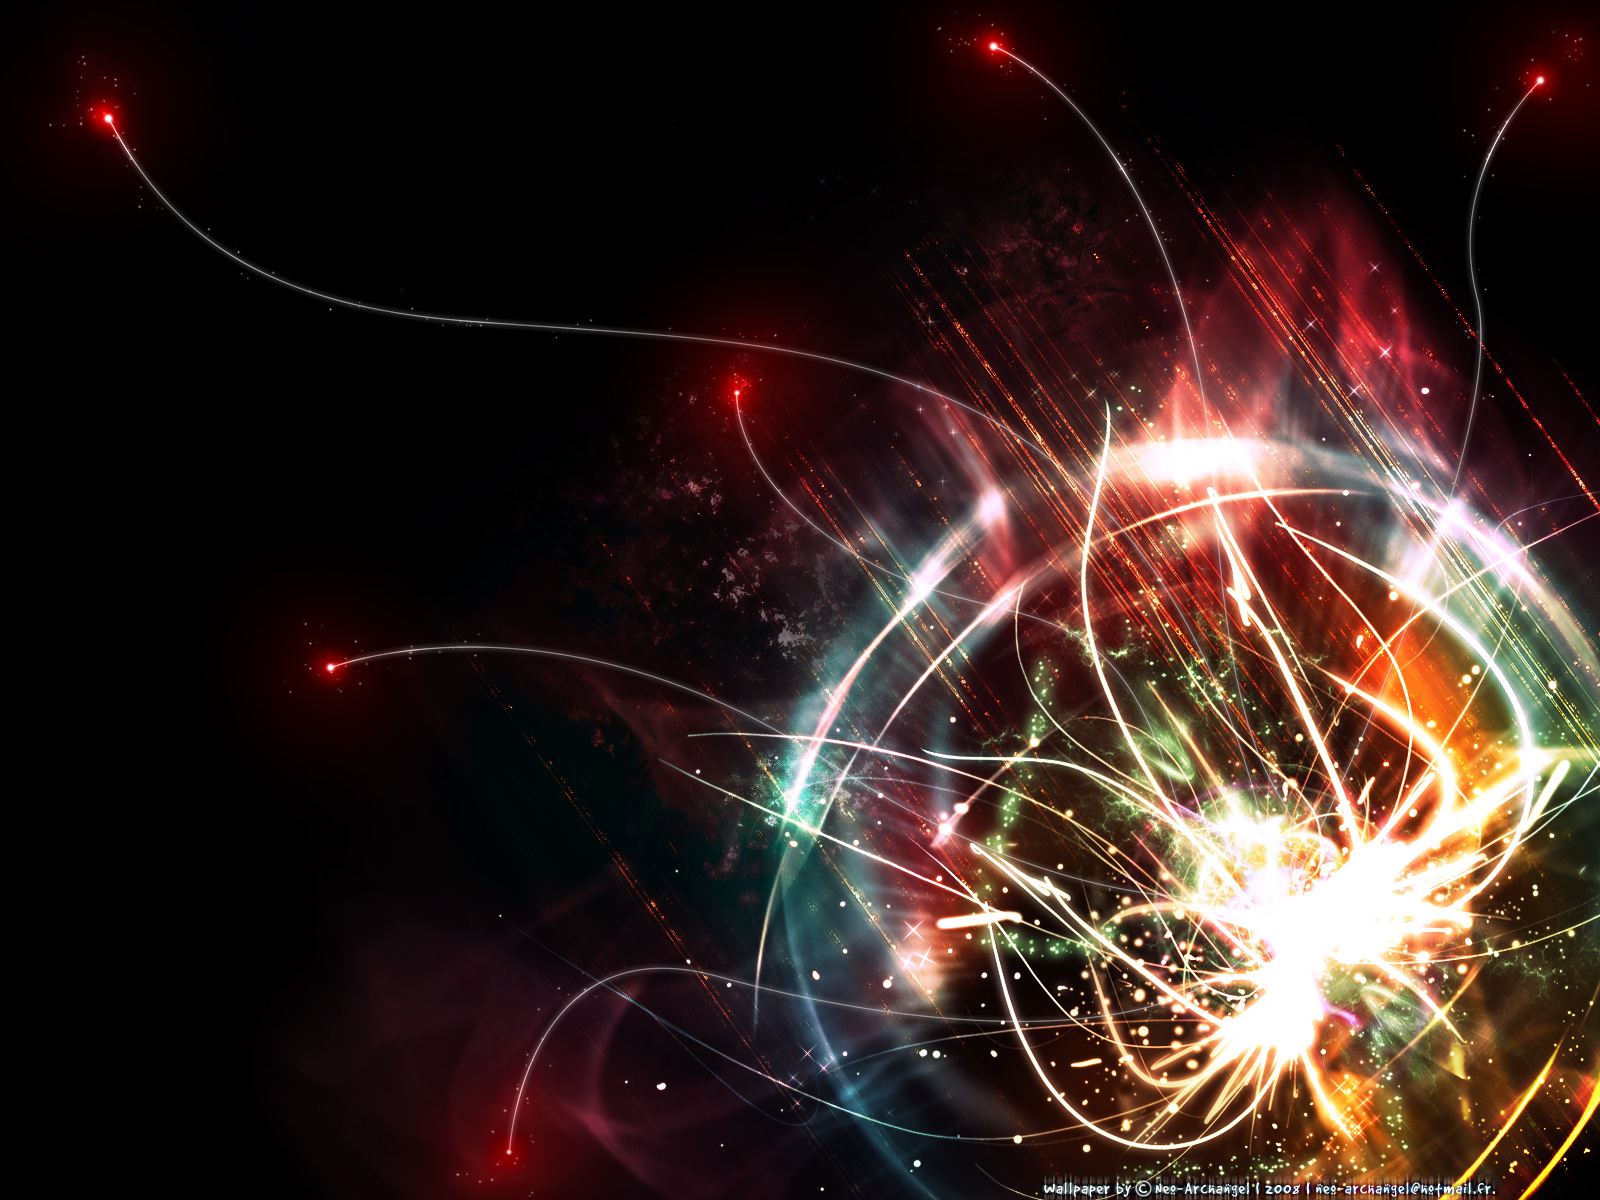
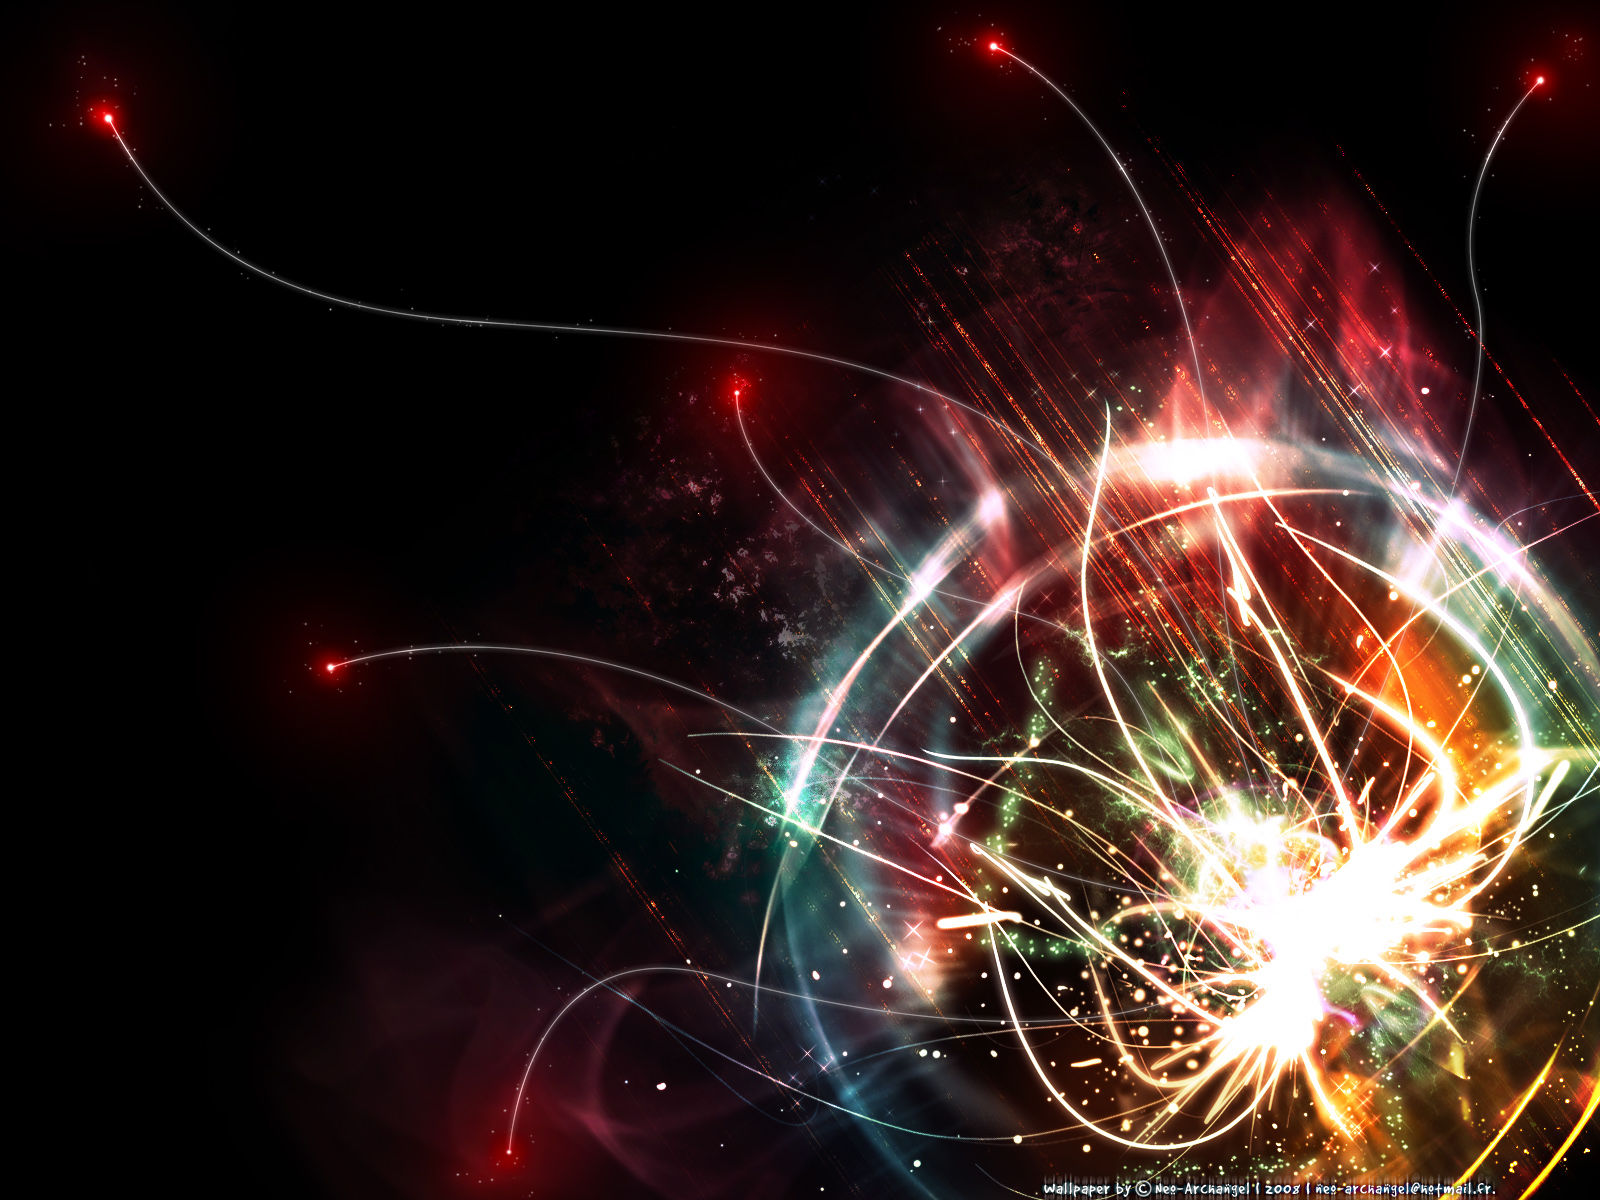
compress bg :: change content's background

diff --git a/css/stylesheet.css b/css/stylesheet.css
@@ -3,6 +3,10 @@ html, body {
     width: 100%;
     position: absolute;
     background-color: black;
+    background-image: url(../images/bg.jpg);
+    background-size: cover;
+    background-attachment: fixed;
+    background-repeat: no-repeat; 
     -webkit-text-size-adjust
 }
 
@@ -26,9 +30,7 @@ p {
     /* Pad bottom by footer height */
     padding: 0 0 80px 0;
     /*  background-color: #555555;*/
-    background-image: url(../images/bg.jpg);
-    background-attachment: fixed;
-    background-repeat: no-repeat; 
+
 }
 
 
